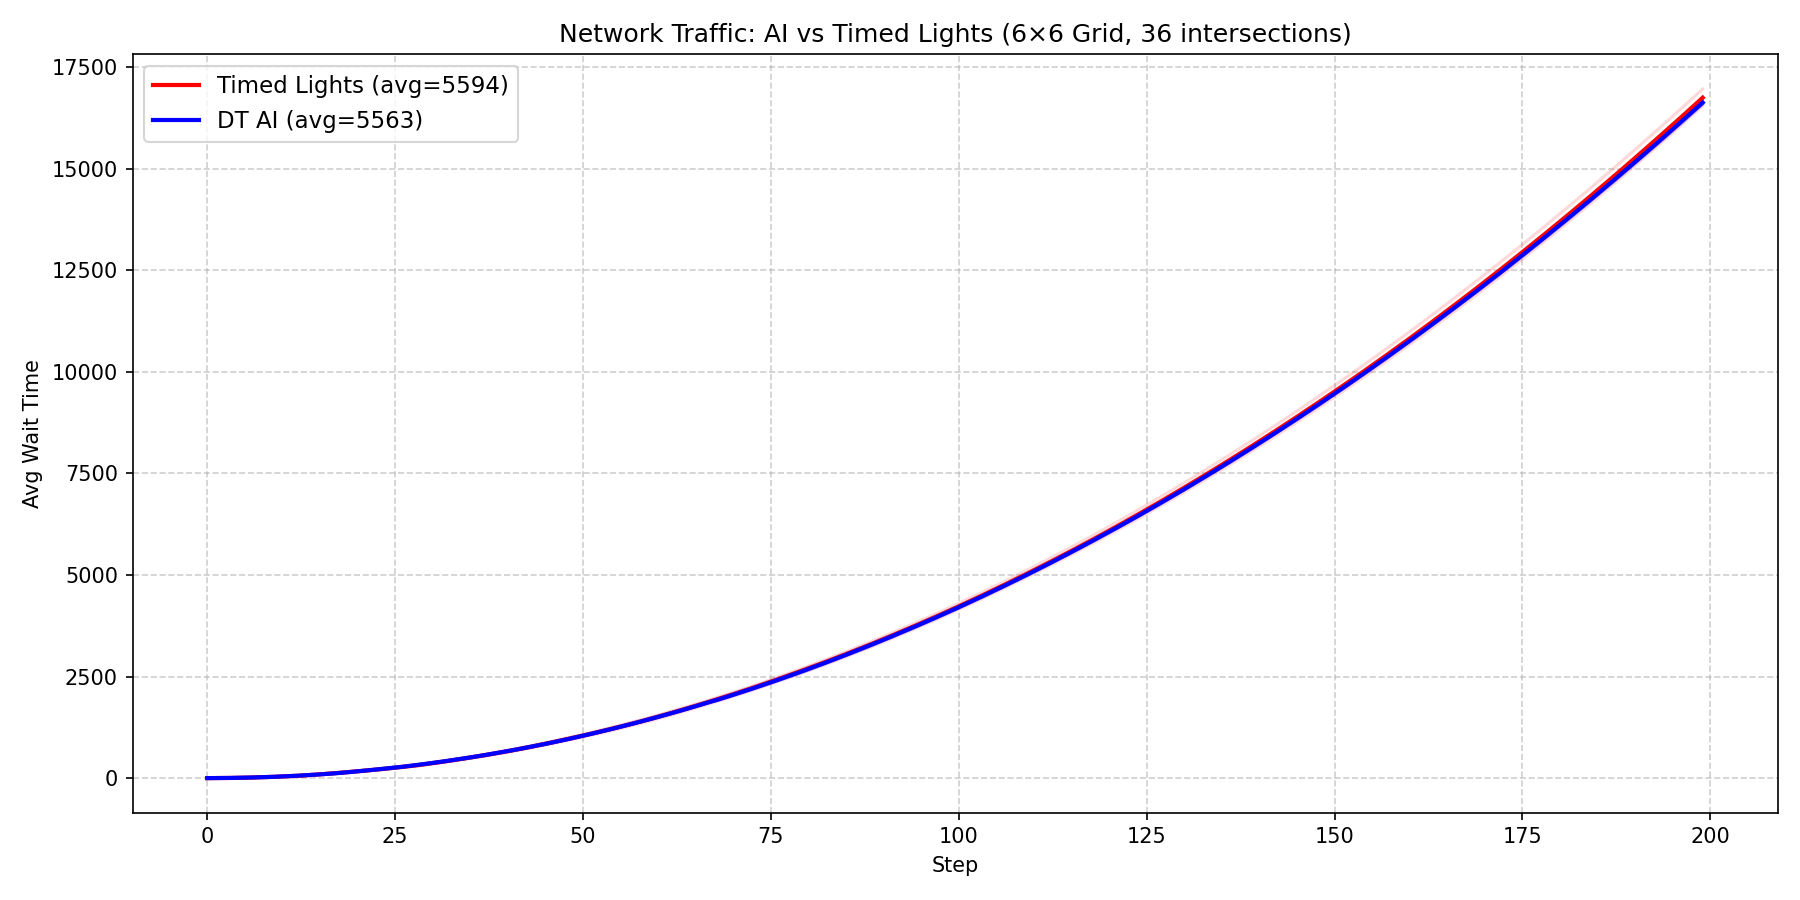
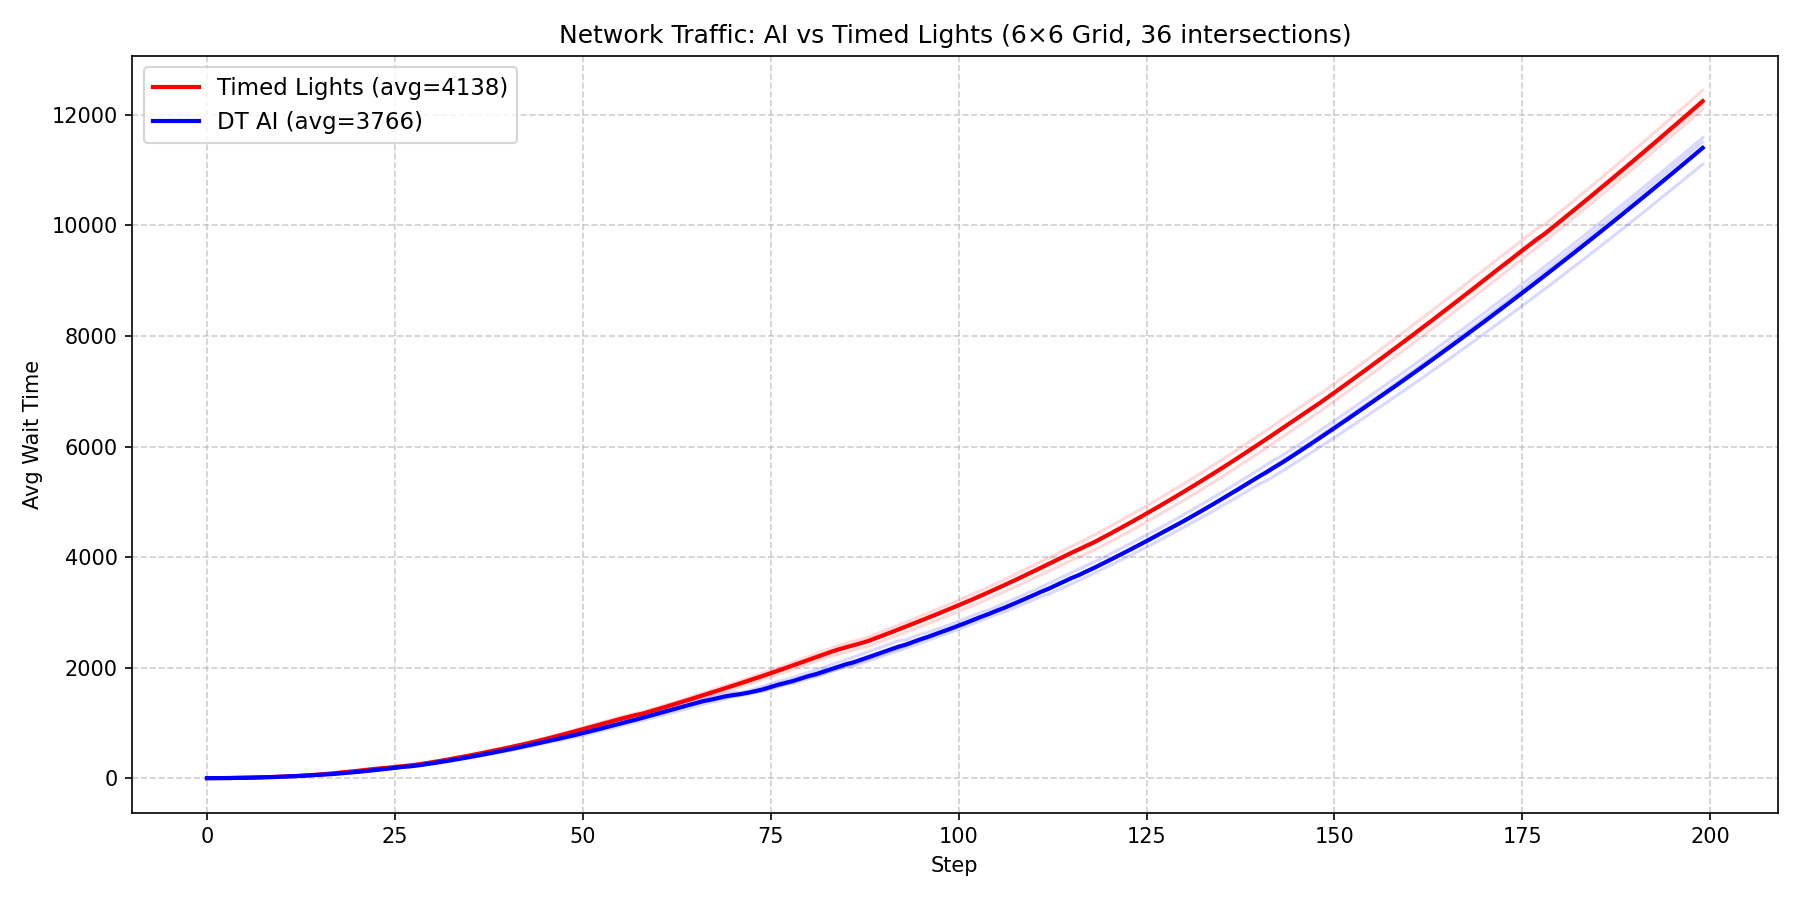
Finalize integrated UI+Model runtime and environment flow fixes

diff --git a/frontend/src/App.tsx b/frontend/src/App.tsx
@@ -208,7 +208,7 @@ function App() {
 
     const pollBridge = async () => {
       try {
-        const response = await fetch('/data_bridge.json', { cache: 'no-store' })
+        const response = await fetch('/evaluate_bridge.json', { cache: 'no-store' })
         if (!response.ok) {
           return
         }
@@ -222,6 +222,14 @@ function App() {
 
         setEnvironmentHistory((previousHistory) => {
           const latest = previousHistory[previousHistory.length - 1]
+
+          if (latest && normalizedPayload.time < latest.time) {
+            const hasRestarted = latest.time - normalizedPayload.time > 5
+            if (hasRestarted) {
+              return [normalizedPayload]
+            }
+          }
+
           if (!latest || normalizedPayload.time > latest.time) {
             const withoutFallback =
               previousHistory.length === 1 && previousHistory[0].time === 0

diff --git a/evaluate.py b/evaluate.py
@@ -1,12 +1,40 @@
+import argparse
+import json
+import time
+from pathlib import Path
+
 import numpy as np
-import torch
-import matplotlib.pyplot as plt
 from env.traffic_env import GridEnv
-from agent import TrafficDecisionTransformer
+
+try:
+    import matplotlib.pyplot as plt
+    HAS_MATPLOTLIB = True
+except ImportError:
+    HAS_MATPLOTLIB = False
+
+try:
+    import torch
+    HAS_TORCH = True
+except ImportError:
+    HAS_TORCH = False
 
 CONTEXT_LEN = 20
 NUM_NODES   = 36
 EVAL_STEPS  = 200
+LIVE_UI_SLEEP_SECONDS = 0.5
+
+BRIDGE_PATH = Path('evaluate_bridge.json')
+PUBLIC_BRIDGE_PATH = Path('frontend/public/evaluate_bridge.json')
+
+
+def write_ui_bridge(ui_data: dict):
+    PUBLIC_BRIDGE_PATH.parent.mkdir(parents=True, exist_ok=True)
+
+    with BRIDGE_PATH.open('w', encoding='utf-8') as bridge_file:
+        json.dump(ui_data, bridge_file, indent=2)
+
+    with PUBLIC_BRIDGE_PATH.open('w', encoding='utf-8') as public_bridge_file:
+        json.dump(ui_data, public_bridge_file, indent=2)
 
 
 # ===================================================================
@@ -33,6 +61,11 @@ def run_baseline_episode(steps=EVAL_STEPS):
 #  AI POLICY — Decision Transformer on all 36 nodes
 # ===================================================================
 def run_ai_episode(model_path, steps=EVAL_STEPS):
+    if not HAS_TORCH:
+        raise RuntimeError("PyTorch is required for AI evaluation. Install torch before running evaluate.py.")
+
+    from agent import TrafficDecisionTransformer
+
     env = GridEnv(num_intersections=NUM_NODES, grid_cols=6)
     waits = []
 
@@ -116,10 +149,113 @@ def run_ai_episode(model_path, steps=EVAL_STEPS):
     return waits
 
 
+def run_ai_live_stream(model_path='dt_traffic_model.pth', sleep_seconds=LIVE_UI_SLEEP_SECONDS):
+    if not HAS_TORCH:
+        raise RuntimeError("PyTorch is required for live AI UI streaming. Install torch before running evaluate.py --live-ui.")
+
+    from agent import TrafficDecisionTransformer
+
+    env = GridEnv(num_intersections=NUM_NODES, grid_cols=6)
+
+    norm       = np.load('norm_stats.npz', allow_pickle=True)
+    state_mean = norm['state_mean']
+    state_std  = norm['state_std']
+    rtg_scale  = float(norm['rtg_scale'])
+    target_rtg = float(norm['target_rtg'])
+    norm_tid   = str(norm['training_id']) if 'training_id' in norm else None
+
+    device = torch.device('cuda' if torch.cuda.is_available() else 'cpu')
+    model  = TrafficDecisionTransformer(
+        state_dim=10, act_dim=2,
+        hidden_size=128, max_length=CONTEXT_LEN,
+        num_layers=3, num_heads=4,
+    ).to(device)
+
+    checkpoint = torch.load(model_path, map_location=device, weights_only=False)
+    if isinstance(checkpoint, dict) and 'model_state_dict' in checkpoint:
+        model.load_state_dict(checkpoint['model_state_dict'])
+        model_tid = checkpoint.get('training_id', None)
+        model_epoch = checkpoint.get('epoch', '?')
+        if norm_tid and model_tid and norm_tid != model_tid:
+            print('    ⚠ WARNING: model and norm_stats are from DIFFERENT training runs!')
+            print(f'      norm_stats training_id = {norm_tid}')
+            print(f'      model training_id      = {model_tid}')
+            print('      → You MUST re-run train.py to completion before evaluating.')
+        print(f'    Model epoch: {model_epoch}')
+    else:
+        model.load_state_dict(checkpoint)
+        print('    ⚠ Legacy model format — no mismatch detection available')
+
+    model.eval()
+    print(f'    target_rtg = {target_rtg:.3f}  rtg_scale = {rtg_scale:.1f}')
+
+    init = [i.get_state_vector() for i in env.intersections]
+    buf_s, buf_a, buf_r, buf_t = [], [], [], []
+    for n in range(NUM_NODES):
+        ns = ((init[n] - state_mean) / state_std).astype(np.float32)
+        buf_s.append(torch.tensor(ns, dtype=torch.float32).reshape(1, 1, -1).to(device))
+        buf_a.append(torch.zeros(1, 1, dtype=torch.long, device=device))
+        buf_r.append(torch.tensor([[[target_rtg]]], dtype=torch.float32, device=device))
+        buf_t.append(torch.zeros(1, 1, dtype=torch.long, device=device))
+
+    print('Streaming live AI evaluation data for UI... Press Ctrl+C to stop.')
+
+    step = 0
+    try:
+        while True:
+            actions = []
+            for n in range(NUM_NODES):
+                a = model.get_action(buf_s[n], buf_a[n], buf_r[n], buf_t[n])
+                actions.append(a)
+
+            new_states, rewards = env.step(actions)
+            ui_data = env.get_ui_data()
+            write_ui_bridge(ui_data)
+
+            for n in range(NUM_NODES):
+                buf_a[n][0, -1] = actions[n]
+                cur_rtg = buf_r[n][0, -1, 0].item()
+                next_rtg = cur_rtg - rewards[n] / rtg_scale
+
+                ns = ((new_states[n] - state_mean) / state_std).astype(np.float32)
+                buf_s[n] = torch.cat([
+                    buf_s[n],
+                    torch.tensor(ns, dtype=torch.float32).reshape(1, 1, -1).to(device),
+                ], dim=1)
+                buf_a[n] = torch.cat([
+                    buf_a[n],
+                    torch.zeros(1, 1, dtype=torch.long, device=device),
+                ], dim=1)
+                buf_r[n] = torch.cat([
+                    buf_r[n],
+                    torch.tensor([[[next_rtg]]], dtype=torch.float32, device=device),
+                ], dim=1)
+                buf_t[n] = torch.cat([
+                    buf_t[n],
+                    torch.tensor([[min(step + 1, CONTEXT_LEN - 1)]], dtype=torch.long, device=device),
+                ], dim=1)
+
+                buf_s[n] = buf_s[n][:, -CONTEXT_LEN:]
+                buf_a[n] = buf_a[n][:, -CONTEXT_LEN:]
+                buf_r[n] = buf_r[n][:, -CONTEXT_LEN:]
+                buf_t[n] = buf_t[n][:, -CONTEXT_LEN:]
+
+            step += 1
+            if step % 5 == 0:
+                print(f'Completed {step} live evaluation steps. Latest UI time: {ui_data.get("time")}')
+
+            time.sleep(sleep_seconds)
+    except KeyboardInterrupt:
+        print('\nLive evaluation stream stopped by user.')
+
+
 # ===================================================================
 #  EVALUATE
 # ===================================================================
 def evaluate():
+    if not HAS_MATPLOTLIB:
+        raise RuntimeError("matplotlib is required for evaluate() plotting. Install matplotlib before running offline evaluation.")
+
     num_runs = 3
     print(f"Evaluating: {num_runs} runs × {EVAL_STEPS} steps × {NUM_NODES} nodes\n")
 
@@ -157,4 +293,13 @@ def evaluate():
 
 
 if __name__ == '__main__':
-    evaluate()
+    parser = argparse.ArgumentParser()
+    parser.add_argument('--live-ui', action='store_true', help='Stream AI evaluation output for frontend UI polling')
+    parser.add_argument('--model-path', default='dt_traffic_model.pth', help='Path to trained model checkpoint')
+    parser.add_argument('--sleep', type=float, default=LIVE_UI_SLEEP_SECONDS, help='Seconds between live evaluation steps')
+    args = parser.parse_args()
+
+    if args.live_ui:
+        run_ai_live_stream(model_path=args.model_path, sleep_seconds=args.sleep)
+    else:
+        evaluate()

diff --git a/env/traffic_env.py b/env/traffic_env.py
@@ -126,11 +126,12 @@ class SimplifiedIntersection:
         rush = 1.3 if (self.global_step % 100) < 50 else 0.7
 
         if is_edge:
-            ns_rate = 0.55 * rush   # Heavy N/S
-            ew_rate = 0.12 * rush   # Light E/W
+            ns_rate = 0.56 * rush   # Heavy N/S
         else:
-            ns_rate = 0.10 * rush
-            ew_rate = 0.03 * rush
+            ns_rate = 0.12 * rush
+
+        # Enforce directional asymmetry (N/S receives ~4x E/W demand)
+        ew_rate = ns_rate / 4.0
 
         arrivals = np.array([
             np.random.poisson(ns_rate * 3),
@@ -265,26 +266,27 @@ class GridEnv:
         for i, inter in enumerate(self.intersections):
             nb = self._neighbors[i]
 
-            # Cars discharged along N/S direction (index 0) -> route to north & south
+            # Cars discharged along N/S direction (index 0) -> split to north & south.
+            # If one side is missing (edge), that portion leaves the grid.
             ns_discharged = inter.discharged_this_tick[0]
             if ns_discharged > 0:
-                ns_neighbors = [nb["north"], nb["south"]]
-                valid = [n for n in ns_neighbors if n is not None]
-                if valid:
-                    per_neighbor = ns_discharged / len(valid)
-                    for nid in valid:
-                        self.intersections[nid].add_routed_arrivals(0, per_neighbor)
-                # else: edge node, cars leave the grid
+                per_direction = ns_discharged / 2.0
+                for dir_key in ["north", "south"]:
+                    nid = nb[dir_key]
+                    if nid is not None:
+                        self.intersections[nid].add_routed_arrivals(0, per_direction)
+                    # else: cars leave the grid on this edge
 
-            # Cars discharged along E/W direction (index 1) -> route to east & west
+            # Cars discharged along E/W direction (index 1) -> split to east & west.
+            # If one side is missing (edge), that portion leaves the grid.
             ew_discharged = inter.discharged_this_tick[1]
             if ew_discharged > 0:
-                ew_neighbors = [nb["east"], nb["west"]]
-                valid = [n for n in ew_neighbors if n is not None]
-                if valid:
-                    per_neighbor = ew_discharged / len(valid)
-                    for nid in valid:
-                        self.intersections[nid].add_routed_arrivals(1, per_neighbor)
+                per_direction = ew_discharged / 2.0
+                for dir_key in ["east", "west"]:
+                    nid = nb[dir_key]
+                    if nid is not None:
+                        self.intersections[nid].add_routed_arrivals(1, per_direction)
+                    # else: cars leave the grid on this edge
 
         self.global_time += 1
         return states, rewards

diff --git a/main.py b/main.py
@@ -95,7 +95,10 @@ def main():
     csv_path = Path("traffic_metrics.csv")
     bridge_path = Path("data_bridge.json")
     public_bridge_path = Path("frontend/public/data_bridge.json")
+    evaluate_bridge_path = Path("evaluate_bridge.json")
+    public_evaluate_bridge_path = Path("frontend/public/evaluate_bridge.json")
     public_bridge_path.parent.mkdir(parents=True, exist_ok=True)
+    public_evaluate_bridge_path.parent.mkdir(parents=True, exist_ok=True)
     
     agent = None
     if HAS_MODEL:
@@ -162,6 +165,13 @@ def main():
 
             with public_bridge_path.open("w", encoding="utf-8") as public_bridge_file:
                 json.dump(ui_data, public_bridge_file, indent=2)
+
+            # Compatibility output for frontend polling from evaluate_bridge.json
+            with evaluate_bridge_path.open("w", encoding="utf-8") as evaluate_bridge_file:
+                json.dump(ui_data, evaluate_bridge_file, indent=2)
+
+            with public_evaluate_bridge_path.open("w", encoding="utf-8") as public_evaluate_bridge_file:
+                json.dump(ui_data, public_evaluate_bridge_file, indent=2)
                 
             step_count += 1
             if step_count % 5 == 0:
